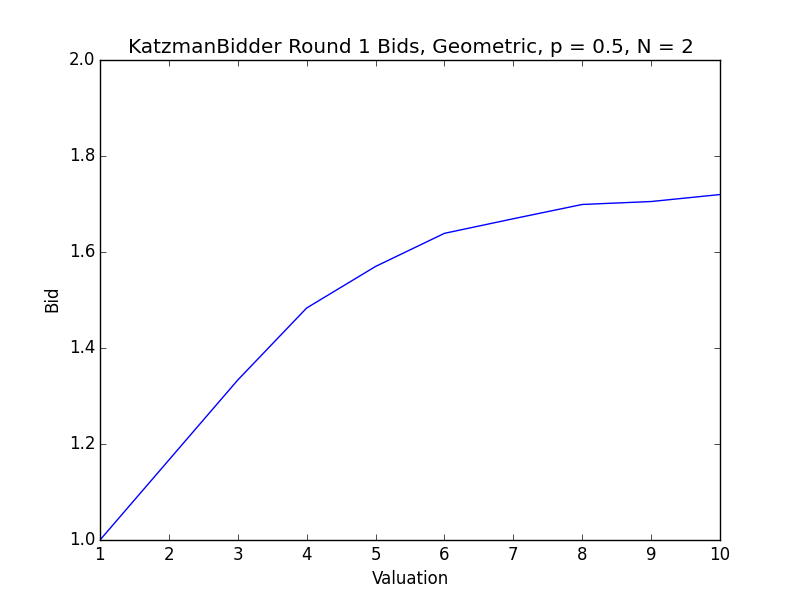
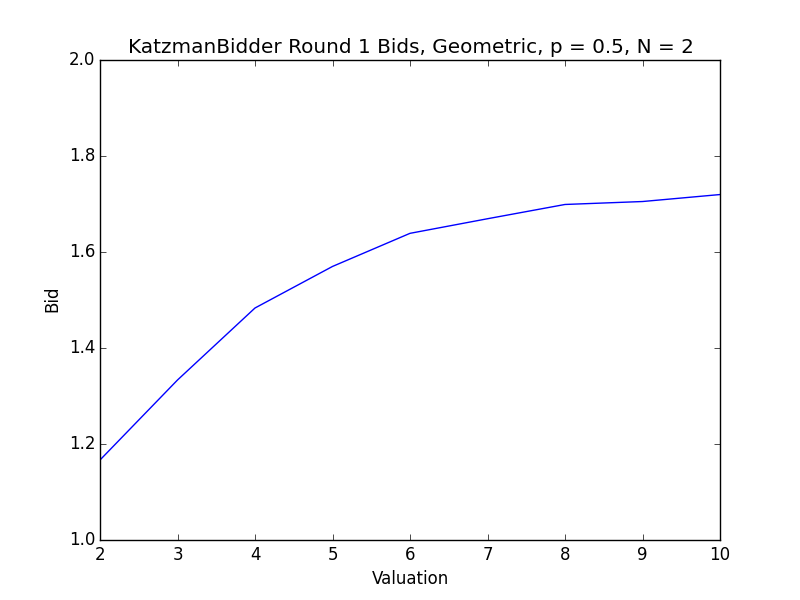
Cleaned up the way the first-round bid is computed in the Katzman bidder class.  Updated a script to take into account the type_dist_disc parameter that was added.

diff --git a/bidder/katzman.py b/bidder/katzman.py
@@ -60,28 +60,30 @@ class KatzmanBidder(SimpleBidder):
         """
         r = current_round - 1
         if current_round == 1:
+            # We need to compute equation 1:
+            # b^*(H) = H - \frac{\int_{\underline{v}}^{H} F(x)^{2N - 1} \, dx}{F(H)^{2N - 1}}
+            # Let m = 2N - 1, where there are N + 1 bidders total
             m = 2 * (self.num_bidders - 1) - 1  # 2N - 1 in equation 1 of [1]
-            if self.type_dist_disc:
-                idx = self.possible_types.index(self.valuations[0])
-                cdf_pow_m = [self.type_dist_cdf[i] ** m for i in range(idx + 1)]
-                int_cdf_pow_m_to_v = scipy.integrate.simps(cdf_pow_m, self.possible_types[:idx + 1])
-                bid = self.valuations[0] - (int_cdf_pow_m_to_v / cdf_pow_m[-1])
-            else:
-                # Closest element in self.possible_types to the bidder's valuation
-                idx, closest_val = min(enumerate(self.possible_types),
-                                       key=lambda x: abs(self.possible_types[1] - self.valuations[0]))
-                # Calculate the CDF of the bidder's valuation
+            # To perform the integration, we need to have types from \underline{v} to H and their corresponding CDF
+            # values.  First, collect all possible types that are less than or equal to the bidder's valuation,
+            # and their corresponding CDF values.
+            types_le_val = [self.possible_types[i] for i in range(len(self.possible_types))
+                            if self.possible_types[i] <= self.valuations[0]]
+            cdf_types_le_val = self.type_dist_cdf[:len(types_le_val)]
+            # Add the bidder's valuation and corresponding CDF value, if necessary.  If we sampled valuations from a
+            # discrete distribution, then the bidder's valuation should be in the newly constructed list.  This should
+            # only need to be done when dealing with continuous type distributions.
+            if self.valuations[0] != types_le_val[-1]:
+                types_le_val.append(self.valuations[0])
                 cdf = scipy.interpolate.interp1d(self.possible_types, self.type_dist_cdf)
                 cdf_at_val = float(cdf(self.valuations[0]))
-                # The x (types) and y (CDF) we need to perform the integration
-                types_le_val = self.possible_types[:idx + 1]
-                types_le_val.append(self.valuations[0])
-                cdf_types_le_val = self.type_dist_cdf[:idx + 1]
                 cdf_types_le_val.append(cdf_at_val)
-                cdf_pow_m = [cdf_types_le_val[i] ** m for i in range(len(cdf_types_le_val))]
-                int_cdf_pow_m_to_v = scipy.integrate.simps(cdf_pow_m, types_le_val)
-                bid = self.valuations[0] - (int_cdf_pow_m_to_v / cdf_pow_m[-1])
-
+            # Compute F(x)^{2N - 1}
+            cdf_pow_m = [cdf_types_le_val[i] ** m for i in range(len(cdf_types_le_val))]
+            # Perform integration
+            int_cdf_pow_m_to_v = scipy.integrate.simps(cdf_pow_m, types_le_val)
+            # Calculate bid
+            bid = self.valuations[0] - (int_cdf_pow_m_to_v / cdf_pow_m[-1])
         else:
             if self.num_goods_won == 0:
                 bid = self.valuations[0]

diff --git a/experiment/katzman_bid_1.py b/experiment/katzman_bid_1.py
@@ -10,8 +10,8 @@ import matplotlib.pyplot as plt
 import scipy.stats
 from math import floor, ceil
 
-def make_plot(possible_types, type_dist, plot_title, filename):
-    bidder = KatzmanBidder(0, num_rounds, num_bidders, possible_types, type_dist)
+def make_plot(possible_types, type_dist, type_dist_disc, plot_title, filename):
+    bidder = KatzmanBidder(0, num_rounds, num_bidders, possible_types, type_dist, type_dist_disc)
     bids = [0] * len(possible_types)
     for idx, val in enumerate(possible_types):
         bidder.valuations[0] = val
@@ -42,9 +42,10 @@ round_number = 1
 # Uniform
 possible_types = [i / 100.0 for i in range(101)]
 type_dist = [1 / 101.0 for i in range(101)]
+type_dist_disc = True
 plot_title = 'KatzmanBidder Round 1 Bids, Uniform(0,1), N = ' + str(num_bidders)
 filename = 'katzman_bid1_N_2_uniform.png'
-make_plot(possible_types, type_dist, plot_title, filename)
+make_plot(possible_types, type_dist, type_dist_disc, plot_title, filename)
 
 # Geometric
 p = 0.5
@@ -52,4 +53,4 @@ possible_types = [i for i in range(1,11)]
 type_dist = scipy.stats.geom.pmf(possible_types, p).tolist()
 plot_title = 'KatzmanBidder Round 1 Bids, Geometric, p = ' + str(p) + ', N = ' + str(num_bidders)
 filename = 'katzman_bid1_N_2_geometric.png'
-make_plot(possible_types, type_dist, plot_title, filename)
+make_plot(possible_types, type_dist, type_dist_disc, plot_title, filename)
